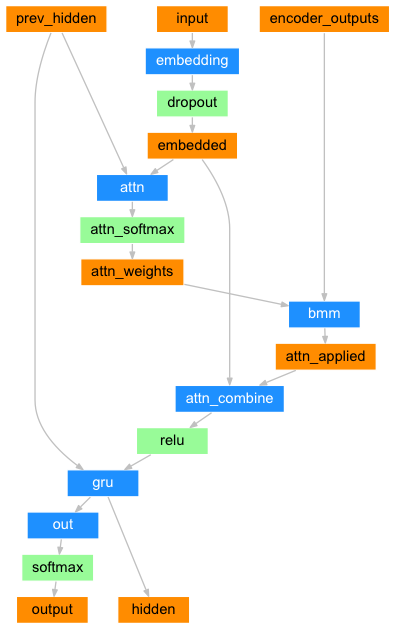
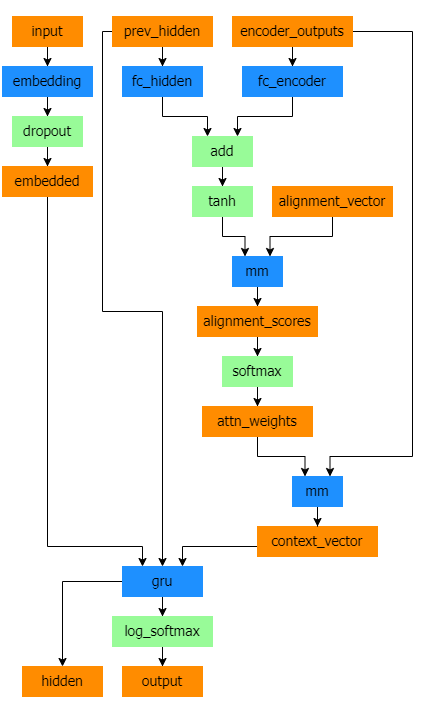
Fix Attention in seq2seq_translation_tutorial AttnDecoderRNN (#2452)
* replace old decoder diagram with new one
* remove 1 from encoder1 and decoder1
* fix attention in AttnDecoderRNN
* Fix formatting going over max character count

---------

diff --git a/intermediate_source/seq2seq_translation_tutorial.py b/intermediate_source/seq2seq_translation_tutorial.py
@@ -440,25 +440,27 @@ class AttnDecoderRNN(nn.Module):
         self.max_length = max_length
 
         self.embedding = nn.Embedding(self.output_size, self.hidden_size)
-        self.attn = nn.Linear(self.hidden_size * 2, self.max_length)
-        self.attn_combine = nn.Linear(self.hidden_size * 2, self.hidden_size)
+        self.fc_hidden = nn.Linear(self.hidden_size, self.hidden_size, bias=False)
+        self.fc_encoder = nn.Linear(self.hidden_size, self.hidden_size, bias=False)
+        self.alignment_vector = nn.Parameter(torch.Tensor(1, hidden_size))
+        torch.nn.init.xavier_uniform_(self.alignment_vector)
         self.dropout = nn.Dropout(self.dropout_p)
-        self.gru = nn.GRU(self.hidden_size, self.hidden_size)
+        self.gru = nn.GRU(self.hidden_size * 2, self.hidden_size)
         self.out = nn.Linear(self.hidden_size, self.output_size)
 
     def forward(self, input, hidden, encoder_outputs):
-        embedded = self.embedding(input).view(1, 1, -1)
+        embedded = self.embedding(input).view(1, -1)
         embedded = self.dropout(embedded)
 
-        attn_weights = F.softmax(
-            self.attn(torch.cat((embedded[0], hidden[0]), 1)), dim=1)
-        attn_applied = torch.bmm(attn_weights.unsqueeze(0),
-                                 encoder_outputs.unsqueeze(0))
+        transformed_hidden = self.fc_hidden(hidden[0])
+        expanded_hidden_state = transformed_hidden.expand(self.max_length, -1)
+        alignment_scores = torch.tanh(expanded_hidden_state +
+                                      self.fc_encoder(encoder_outputs))
+        alignment_scores = self.alignment_vector.mm(alignment_scores.T)
+        attn_weights = F.softmax(alignment_scores, dim=1)
+        context_vector = attn_weights.mm(encoder_outputs)
 
-        output = torch.cat((embedded[0], attn_applied[0]), 1)
-        output = self.attn_combine(output).unsqueeze(0)
-
-        output = F.relu(output)
+        output = torch.cat((embedded, context_vector), 1).unsqueeze(0)
         output, hidden = self.gru(output, hidden)
 
         output = F.log_softmax(self.out(output[0]), dim=1)
@@ -761,15 +763,15 @@ def evaluateRandomly(encoder, decoder, n=10):
 #
 
 hidden_size = 256
-encoder1 = EncoderRNN(input_lang.n_words, hidden_size).to(device)
-attn_decoder1 = AttnDecoderRNN(hidden_size, output_lang.n_words, dropout_p=0.1).to(device)
+encoder = EncoderRNN(input_lang.n_words, hidden_size).to(device)
+attn_decoder = AttnDecoderRNN(hidden_size, output_lang.n_words, dropout_p=0.1).to(device)
 
-trainIters(encoder1, attn_decoder1, 75000, print_every=5000)
+trainIters(encoder, attn_decoder, 75000, print_every=5000)
 
 ######################################################################
 #
 
-evaluateRandomly(encoder1, attn_decoder1)
+evaluateRandomly(encoder, attn_decoder)
 
 
 ######################################################################
@@ -787,7 +789,7 @@ evaluateRandomly(encoder1, attn_decoder1)
 #
 
 output_words, attentions = evaluate(
-    encoder1, attn_decoder1, "je suis trop froid .")
+    encoder, attn_decoder, "je suis trop froid .")
 plt.matshow(attentions.numpy())
 
 
@@ -817,7 +819,7 @@ def showAttention(input_sentence, output_words, attentions):
 
 def evaluateAndShowAttention(input_sentence):
     output_words, attentions = evaluate(
-        encoder1, attn_decoder1, input_sentence)
+        encoder, attn_decoder, input_sentence)
     print('input =', input_sentence)
     print('output =', ' '.join(output_words))
     showAttention(input_sentence, output_words, attentions)
